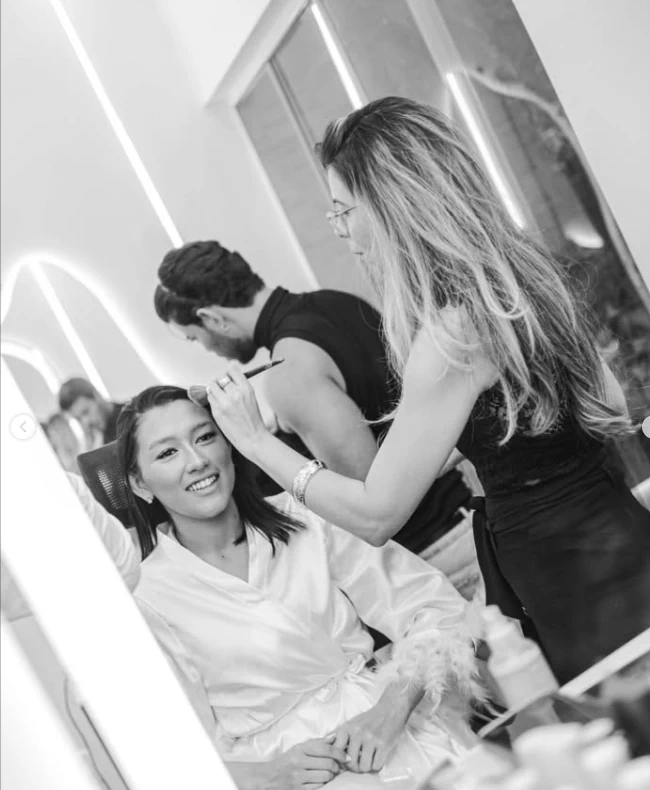
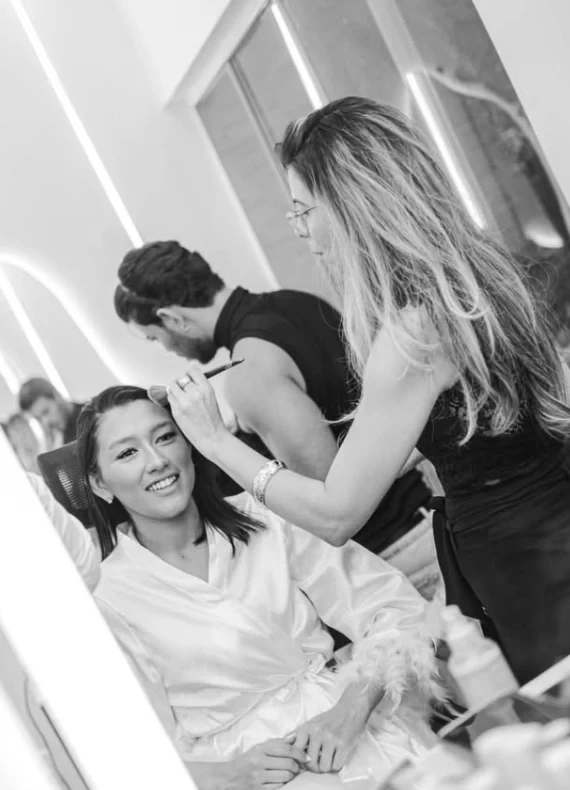
feat: pincel sem serifa, retrato subindo de baixo, portfolio em duas colunas no celular
- Beleza e Sofisticacao na DM Sans dos titulos, sem a Cormorant, que deixa
  de ser baixada.
- Franciana entra subindo da borda de baixo do palco, em vez de vir de lado.
- Carrossel: o botao Ver o portfolio fica no pe da legenda e nao muda de
  altura quando o texto muda de tamanho.
- Portfolio no celular: grade em duas colunas, como no desktop, e a foto de
  bastidores na largura toda, num recorte 5:4.
- Foto de bastidores sem as setas do Instagram que vinham gravadas nas
  laterais (40px cortados de cada lado).

diff --git a/style.css b/style.css
@@ -335,7 +335,7 @@ html.salto-ancora #hero{visibility:hidden}
   transform-origin:50% 82%;will-change:transform}
 /* Palavras da cena em serifada italica, que conversa com o MAKE do logo e com a
    assinatura manuscrita da abertura. Escalonadas: Beleza le primeiro, acima. */
-.brush-word{font:italic 500 clamp(40px,5.4vw,84px)/1 'Cormorant Garamond',Georgia,serif;letter-spacing:0}
+.brush-word{font:500 clamp(38px,5vw,78px)/1 var(--serif);letter-spacing:-.02em}
 .brush-left{top:45%}
 .brush-right{top:57%}
 @media(max-width:850px){
@@ -354,9 +354,12 @@ html.salto-ancora #hero{visibility:hidden}
   .hero-marca{margin:0 auto 14px}
 }
 .mobile-layout.cinematic .hero-marca{margin:0 auto 14px}
-/* CTA do carrossel centrado e com mais ar acima, em vez de colado a legenda. */
+/* CTA do carrossel centrado e com mais ar acima, em vez de colado a legenda.
+   As legendas dividem a mesma celula, que tem a altura da maior; o botao fica
+   no pe dela, entao nao sobe nem desce quando a legenda muda de tamanho. */
 .sq-slide{align-items:stretch;gap:0}
-.sq-slide .btn-pk{align-self:center;margin-top:clamp(26px,3.2vw,38px)}
+.sq-slide p{margin-bottom:clamp(26px,3.2vw,38px)}
+.sq-slide .btn-pk{align-self:center;margin-top:auto}
 @media(min-width:900px){
   .sq-slide{flex-direction:column;align-items:stretch;justify-content:flex-start;gap:0}
 }

diff --git a/portfolio.css b/portfolio.css
@@ -76,7 +76,6 @@ html[data-theme] .pf-filters .glow-prata[aria-pressed="true"]{
   .pf-feature{max-width:460px}
 }
 @media(max-width:620px){
-  .pf-grid{grid-template-columns:1fr}
   .pf-hero{padding:calc(var(--nav) + 34px) 0 26px}
   .lb-nav{width:44px;height:44px}
   #lb-prev{left:8px}
@@ -93,10 +92,12 @@ html[data-theme] .pf-filters .glow-prata[aria-pressed="true"]{
   transition-delay:calc(var(--k,0) * 90ms)}
 .pf-anima .pf-item.visto{opacity:1;transform:none;filter:none}
 #lb-img{border-radius:14px}
-/* No celular a foto do topo dominava a primeira tela: fica menor e encostada a
-   direita, em diagonal com o texto, que esta a esquerda. */
+/* No celular a foto do topo ocupa a largura toda, num recorte mais baixo para
+   nao tomar a primeira tela. A grade fica em duas colunas, como no desktop. */
 @media(max-width:620px){
-  .pf-feature{width:min(68vw,270px);margin-left:auto}
+  .pf-feature img{aspect-ratio:5/4;object-fit:cover;object-position:50% 30%}
+  .pf-grid{grid-template-columns:repeat(2,1fr);gap:10px}
+  .pf-item img{border-radius:12px}
   /* Os tres filtros numa linha so, para Noivas continuar a direita: com o
      tamanho do desktop ela quebrava para baixo, sozinha, a esquerda. */
   .pf-filters{flex-wrap:nowrap;gap:8px}

diff --git a/script.js b/script.js
@@ -424,7 +424,8 @@
     content.inert = reveal < .92;
     portrait.style.opacity = reveal;
     portrait.style.visibility = reveal > .01 ? 'visible' : 'hidden';
-    portrait.style.transform = `translate3d(${20 * (1 - reveal)}px,${14 * (1 - reveal)}px,0)`;
+    // Sobe de baixo: o palco corta a base, entao ela nasce da borda inferior.
+    portrait.style.transform = `translate3d(0,${36 * (1 - reveal)}%,0)`;
   }
   /* Abertura: o scroll escreve o nome, e o CONHECA e a legenda acendem na mesma
      medida. Antes as legendas ja estavam na tela enquanto o nome ainda nao tinha
@@ -432,7 +433,7 @@
      o video: e o preco de o nome ser escrito pela mao de quem rola. */
   /* Beleza e Sofisticacao acendem letra a letra. As letras ficam em linha, nao
      em caixas, para manter o ajuste entre elas, e o "fi" anda junto para a
-     ligadura da Cormorant nao quebrar. */
+     ligadura nao quebrar. */
   function dividirPalavra(palavra, texto) {
     const unidades = texto.match(/fi|fl|./gu) || [];
     palavra.style.setProperty('--n', unidades.length);

diff --git a/index.html b/index.html
@@ -11,7 +11,7 @@
 <meta name="twitter:card" content="summary_large_image"/>
 <link rel="icon" href="favicon.svg" type="image/svg+xml"/><link rel="alternate icon" href="images/logo-icon.png" type="image/png"/><script src="boot.js"></script>
 <link rel="preconnect" href="https://fonts.googleapis.com"/><link rel="preconnect" href="https://fonts.gstatic.com" crossorigin/>
-<link href="https://fonts.googleapis.com/css2?family=Cormorant+Garamond:ital,wght@1,500&family=DM+Sans:wght@400;500;600;700&family=Manrope:wght@400;500;600;700&display=swap" rel="stylesheet"/>
+<link href="https://fonts.googleapis.com/css2?family=DM+Sans:wght@400;500;600;700&family=Manrope:wght@400;500;600;700&display=swap" rel="stylesheet"/>
 <link rel="stylesheet" href="style.css"/>
 <link rel="stylesheet" href="dark.css"/>
 <link rel="stylesheet" href="spotlight.css"/>

diff --git a/portfolio.html b/portfolio.html
@@ -47,7 +47,7 @@
       <h1>Cada rosto,<br/><em>uma assinatura.</em></h1>
       <p>Noivas e produções para festa, formatura e ensaio. Trabalhos reais do estúdio, em São Luís.</p>
     </div>
-    <figure class="pf-feature"><img src="images/bastidores-noiva-pb.webp" width="650" height="790" alt="Franciana finalizando a maquiagem de uma noiva no estúdio, em preto e branco" fetchpriority="high" decoding="async"/></figure>
+    <figure class="pf-feature"><img src="images/bastidores-noiva-pb.webp" width="570" height="790" alt="Franciana finalizando a maquiagem de uma noiva no estúdio, em preto e branco" fetchpriority="high" decoding="async"/></figure>
   </div>
 </section>
 
